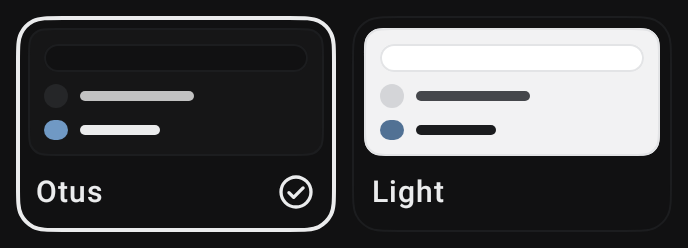
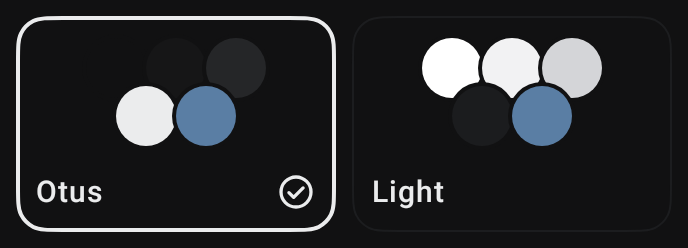
feat(theme): show theme colors as rings and add a hue slider (#162)
- Show each theme card's colors as two rows of overlapping rings.
- Add a public HueSlider, which ColorSheet now uses too.
- Make Hsl, hslColor, and toHsl public for apps that generate themes.
- Share ThemeColor.title so apps name colors as the Colors rows do.
- Drop the Accent color section and its custom accent sheet.
- Fill New mail in the phone preview with the real button's colors.
- Record the change in decision 0014 and the changelog.

Changed region(s): [[0.5189, 0.1129, 0.9767, 0.6492], [0.061, 0.3387, 0.3663, 0.5927]]

diff --git a/designsystem/src/commonMain/kotlin/com/otus/designsystem/shared/settings/components/ThemeCard.kt b/designsystem/src/commonMain/kotlin/com/otus/designsystem/shared/settings/components/ThemeCard.kt
@@ -7,12 +7,10 @@ import androidx.compose.foundation.layout.Arrangement
 import androidx.compose.foundation.layout.Box
 import androidx.compose.foundation.layout.Column
 import androidx.compose.foundation.layout.Row
-import androidx.compose.foundation.layout.fillMaxWidth
 import androidx.compose.foundation.layout.height
 import androidx.compose.foundation.layout.padding
 import androidx.compose.foundation.layout.requiredSize
 import androidx.compose.foundation.layout.size
-import androidx.compose.foundation.shape.CircleShape
 import androidx.compose.material.LocalContentColor
 import androidx.compose.material.Text
 import androidx.compose.runtime.Composable
@@ -24,7 +22,6 @@ import androidx.compose.runtime.setValue
 import androidx.compose.ui.Alignment
 import androidx.compose.ui.Modifier
 import androidx.compose.ui.geometry.Offset
-import androidx.compose.ui.graphics.Color
 import androidx.compose.ui.semantics.Role
 import androidx.compose.ui.semantics.selected
 import androidx.compose.ui.semantics.semantics
@@ -49,7 +46,7 @@ import com.otus.designsystem.theme.tokens.core.Spacing
 import com.otus.designsystem.theme.tokens.settings.ThemeTokens
 
 /**
- * A theme to pick: a small sketch of a page drawn in [sketch]'s colors above [title]. The
+ * A theme to pick: [sketch]'s colors as rings above [title]. The
  * selected card has an accent ring and a check; the card is one radio button.
  * With [actions], a long press opens them in a [ContextMenu] where the finger is, and the selected
  * card shows a more button that opens them in place of the check.
@@ -89,7 +86,7 @@ public fun ThemeCard(
                 ).padding(ThemeTokens.cardPadding),
             verticalArrangement = Arrangement.spacedBy(ThemeTokens.cardGap),
         ) {
-            ThemeSketch(sketch)
+            ThemeRings(sketch)
             CardLabel(title, selected, openMenu)
         }
         val menuPosition = menuAt
@@ -145,46 +142,5 @@ private fun MoreButton(
         ) {
             Symbol(Res.drawable.symbol_more_horiz)
         }
-    }
-}
-
-/** A page with a bar and two lines of text, the second led by the accent. */
-@Composable
-private fun ThemeSketch(sketch: OtusPalette) {
-    val shape = SmoothCornerShape(ThemeTokens.sketchRadius)
-    Column(
-        Modifier
-            .fillMaxWidth()
-            .height(ThemeTokens.sketchHeight)
-            .background(sketch.bgRegular, shape)
-            .strokeBorder(Sizes.borderWidth, sketch.strokeBgDark, shape)
-            .padding(ThemeTokens.sketchPadding),
-        verticalArrangement = Arrangement.spacedBy(ThemeTokens.sketchGap),
-    ) {
-        val bar = SmoothCornerShape(ThemeTokens.sketchBarRadius)
-        Box(
-            Modifier
-                .fillMaxWidth()
-                .height(ThemeTokens.sketchBarHeight)
-                .background(sketch.bgDark, bar)
-                .strokeBorder(Sizes.borderWidth, sketch.strokeBgDark, bar),
-        )
-        SketchLine(sketch.bgLight, sketch.text2, ThemeTokens.SKETCH_LONG_LINE)
-        SketchLine(sketch.accentLight, sketch.text1, ThemeTokens.SKETCH_SHORT_LINE)
-    }
-}
-
-@Composable
-private fun SketchLine(
-    dot: Color,
-    line: Color,
-    length: Float,
-) {
-    Row(
-        horizontalArrangement = Arrangement.spacedBy(ThemeTokens.sketchGap),
-        verticalAlignment = Alignment.CenterVertically,
-    ) {
-        Box(Modifier.size(ThemeTokens.sketchDot).background(dot, CircleShape))
-        Box(Modifier.fillMaxWidth(length).height(ThemeTokens.sketchLineHeight).background(line, CircleShape))
     }
 }

diff --git a/settings/src/commonMain/kotlin/com/otus/settings/presentation/screens/ThemeSettingsScreen.kt b/settings/src/commonMain/kotlin/com/otus/settings/presentation/screens/ThemeSettingsScreen.kt
@@ -22,8 +22,6 @@ import com.otus.designsystem.theme.colors.ThemeChoice
 import com.otus.designsystem.theme.colors.ThemeColor
 import com.otus.designsystem.theme.colors.get
 import com.otus.settings.presentation.ThemeSettingsState
-import com.otus.settings.presentation.components.AccentPicker
-import com.otus.settings.presentation.components.CustomAccentSheet
 import com.otus.settings.presentation.components.ThemeCards
 import com.otus.settings.presentation.components.ThemeColorRows
 import com.otus.settings.presentation.components.ThemeDialog
@@ -32,7 +30,7 @@ import com.otus.settings.presentation.components.themeActions
 import com.otus.settings.presentation.title
 
 /**
- * Picks the theme and accent the whole app uses. Changing a single color makes a custom theme,
+ * Picks the theme the whole app uses. Changing a single color makes a custom theme,
  * which stays until the user deletes it; a theme's actions duplicate, rename, or delete it. The
  * System theme hides the accent and colors, which come from the device. A
  * choice applies at once. A phone at the top shows the app in [preview], the current colors
@@ -47,7 +45,6 @@ public fun ThemeSettingsScreen(
     controls: @Composable ColumnScope.() -> Unit = {},
 ) {
     val choice = state.choice
-    var customizing by rememberSaveable { mutableStateOf(false) }
     var colorsShown by rememberSaveable { mutableStateOf(choice.customTheme != null) }
     var editing by rememberSaveable { mutableStateOf<ThemeColor?>(null) }
     var dialog by remember { mutableStateOf<ThemeDialog?>(null) }
@@ -65,15 +62,8 @@ public fun ThemeSettingsScreen(
         PageSection("Theme") {
             ThemeCards(choice, state::select) { themeActions(it, choice, state::select) { next -> dialog = next } }
         }
-        // The device's colors bring their own accent and stay as the device sets them.
+        // The device's colors stay as the device sets them.
         if (choice.activeSystem == null) {
-            PageSection("Accent color") {
-                AccentPicker(
-                    choice.accent,
-                    onSelect = { state.select(choice.withAccent(it)) },
-                    onCustom = { customizing = true },
-                )
-            }
             PageSection("Colors") {
                 ThemeColorRows(choice, colorsShown, { colorsShown = !colorsShown }, { editing = it })
             }
@@ -85,13 +75,6 @@ public fun ThemeSettingsScreen(
     }
     val currentDialog = dialog
     if (currentDialog != null) ThemeDialogs(currentDialog, choice, state::select) { dialog = it }
-    if (customizing) {
-        CustomAccentSheet(
-            choice,
-            onPick = { state.select(state.choice.withAccent(it)) },
-            onDismiss = { customizing = false },
-        )
-    }
     val color = editing ?: return
     ColorSheet(
         color.title,

diff --git a/designsystem/src/commonMain/kotlin/com/otus/designsystem/shared/settings/components/ThemeRings.kt b/designsystem/src/commonMain/kotlin/com/otus/designsystem/shared/settings/components/ThemeRings.kt
@@ -1,0 +1,68 @@
+package com.otus.designsystem.shared.settings.components
+
+import androidx.compose.foundation.background
+import androidx.compose.foundation.layout.Box
+import androidx.compose.foundation.layout.fillMaxWidth
+import androidx.compose.foundation.layout.height
+import androidx.compose.foundation.layout.offset
+import androidx.compose.foundation.layout.padding
+import androidx.compose.foundation.layout.size
+import androidx.compose.foundation.shape.CircleShape
+import androidx.compose.runtime.Composable
+import androidx.compose.ui.Alignment
+import androidx.compose.ui.Modifier
+import androidx.compose.ui.graphics.Color
+import com.otus.designsystem.theme.colors.OtusColors
+import com.otus.designsystem.theme.colors.OtusPalette
+import com.otus.designsystem.theme.tokens.core.Sizes
+import com.otus.designsystem.theme.tokens.settings.ThemeTokens
+
+/**
+ * [palette]'s colors as overlapping rings in two rows: its surfaces above, its text and accent
+ * below, half a ring along. Each ring is outlined in the card's color, so overlaps read as cut out.
+ */
+@Composable
+internal fun ThemeRings(palette: OtusPalette) {
+    val rows = listOf(palette.surfaces, palette.inks)
+    Box(Modifier.fillMaxWidth().height(ThemeTokens.sketchHeight), contentAlignment = Alignment.Center) {
+        Box(
+            Modifier.size(
+                width = ThemeTokens.ringSize + ThemeTokens.ringStep * (rows.maxOf { it.size } - 1),
+                height = ThemeTokens.ringSize + ThemeTokens.ringDrop * (rows.size - 1),
+            ),
+        ) {
+            rows.forEachIndexed { row, colors ->
+                colors.forEachIndexed { index, color ->
+                    Ring(
+                        color,
+                        Modifier.offset(x = ThemeTokens.ringStep * (index + row / 2f), y = ThemeTokens.ringDrop * row),
+                    )
+                }
+            }
+        }
+    }
+}
+
+@Composable
+private fun Ring(
+    color: Color,
+    modifier: Modifier,
+) {
+    // The color sits inside a disc of the card's color, not under a border on the same edge,
+    // so its antialiased rim cannot show past the outline as a light halo.
+    Box(
+        modifier
+            .size(ThemeTokens.ringSize)
+            .background(OtusColors.bgDark, CircleShape)
+            .padding(Sizes.borderWidth * 2)
+            .background(color, CircleShape),
+    )
+}
+
+/** The raised surface, page, and controls. */
+private val OtusPalette.surfaces: List<Color>
+    get() = listOf(bgDark, bgRegular, bgLight)
+
+/** The strongest text and the accent outline. */
+private val OtusPalette.inks: List<Color>
+    get() = listOf(text1, accentRegular)

diff --git a/designsystem/src/commonMain/kotlin/com/otus/designsystem/shared/settings/elements/HueSlider.kt b/designsystem/src/commonMain/kotlin/com/otus/designsystem/shared/settings/elements/HueSlider.kt
@@ -1,0 +1,38 @@
+package com.otus.designsystem.shared.settings.elements
+
+import androidx.compose.runtime.Composable
+import androidx.compose.runtime.remember
+import androidx.compose.ui.Modifier
+import androidx.compose.ui.graphics.Brush
+import com.otus.designsystem.theme.colors.hslColor
+
+/**
+ * Picks a [hue] in degrees over a rainbow track. The track shows every hue at [saturation] and
+ * [lightness], so it can preview the colors a choice gives, such as an accent's.
+ */
+@Composable
+public fun HueSlider(
+    hue: Float,
+    onHueChange: (Float) -> Unit,
+    label: String,
+    modifier: Modifier = Modifier,
+    saturation: Float = TRACK_SATURATION,
+    lightness: Float = TRACK_LIGHTNESS,
+) {
+    val track = remember(saturation, lightness) { hueTrack(saturation, lightness) }
+    ColorSlider(hue, onHueChange, track, label, modifier, range = 0f..MAX_HUE)
+}
+
+/** Every hue at [saturation] and [lightness], from red at the left back round to red at the right. */
+private fun hueTrack(
+    saturation: Float,
+    lightness: Float,
+): Brush = Brush.horizontalGradient(List(HUE_STOPS + 1) { hslColor(MAX_HUE * it / HUE_STOPS, saturation, lightness) })
+
+/** The largest hue: 360° is red again, the same as 0°. */
+public const val MAX_HUE: Float = 359f
+
+/** Twelve stops keep the bands smooth even at a low saturation. */
+private const val HUE_STOPS = 12
+private const val TRACK_SATURATION = 0.55f
+private const val TRACK_LIGHTNESS = 0.45f

diff --git a/designsystem/src/commonMain/kotlin/com/otus/designsystem/shared/settings/components/ColorSheet.kt b/designsystem/src/commonMain/kotlin/com/otus/designsystem/shared/settings/components/ColorSheet.kt
@@ -28,6 +28,7 @@ import com.otus.designsystem.shared.overlays.components.SheetHeaderAction
 import com.otus.designsystem.shared.overlays.elements.sheetInset
 import com.otus.designsystem.shared.reorder.components.HALF
 import com.otus.designsystem.shared.settings.elements.ColorSlider
+import com.otus.designsystem.shared.settings.elements.HueSlider
 import com.otus.designsystem.theme.colors.Hsl
 import com.otus.designsystem.theme.colors.OtusColors
 import com.otus.designsystem.theme.colors.hslColor
@@ -93,7 +94,7 @@ public fun ColorSheet(
                 color = parsed
                 hsl = parsed.toHsl()
             }
-            ColorSlider(hsl.hue, { slide(hsl.copy(hue = it)) }, hueTrack, "Hue", range = 0f..MAX_HUE)
+            HueSlider(hsl.hue, { slide(hsl.copy(hue = it)) }, "Hue")
             ColorSlider(
                 hsl.saturation,
                 { slide(hsl.copy(saturation = it)) },
@@ -128,13 +129,3 @@ private fun HexRow(
         InputField("Hex", hex, onHexChange, Modifier.weight(1f), placeholder = "#5A7EA4")
     }
 }
-
-private val hueTrack =
-    Brush.horizontalGradient(
-        (0..HUE_STOPS).map { hslColor(MAX_HUE * it / HUE_STOPS, TRACK_SATURATION, TRACK_LIGHTNESS) },
-    )
-
-private const val MAX_HUE = 359f
-private const val HUE_STOPS = 6
-private const val TRACK_SATURATION = 0.55f
-private const val TRACK_LIGHTNESS = 0.45f

diff --git a/designsystem/src/commonMain/kotlin/com/otus/designsystem/theme/tokens/settings/ThemeTokens.kt b/designsystem/src/commonMain/kotlin/com/otus/designsystem/theme/tokens/settings/ThemeTokens.kt
@@ -16,15 +16,11 @@ public object ThemeTokens {
     public val cardTitleSize: TextUnit = 15.sp
     public val cardTitleLineHeight: TextUnit = 20.sp
     public val sketchHeight: Dp = 64.dp
-    public val sketchRadius: Dp = cardRadius - cardPadding
-    public val sketchPadding: Dp = 8.dp
-    public val sketchGap: Dp = 6.dp
-    public val sketchBarHeight: Dp = 14.dp
-    public val sketchBarRadius: Dp = CornerTokens.small
-    public val sketchDot: Dp = 12.dp
-    public val sketchLineHeight: Dp = 5.dp
-    public const val SKETCH_LONG_LINE: Float = 0.5f
-    public const val SKETCH_SHORT_LINE: Float = 0.35f
+
+    /** A card's colors as rings in two rows, each [ringStep] from the next and the lower row [ringDrop] down. */
+    public val ringSize: Dp = 34.dp
+    public val ringStep: Dp = 30.dp
+    public val ringDrop: Dp = 24.dp
 
     public val swatchSize: Dp = 30.dp
     public val swatchTargetWidth: Dp = 40.dp

diff --git a/settings/src/commonMain/kotlin/com/otus/settings/presentation/ThemeLabels.kt b/settings/src/commonMain/kotlin/com/otus/settings/presentation/ThemeLabels.kt
@@ -1,6 +1,5 @@
 package com.otus.settings.presentation
 
-import com.otus.designsystem.theme.colors.AccentPreset
 import com.otus.designsystem.theme.colors.CustomTheme
 import com.otus.designsystem.theme.colors.ThemeBase
 import com.otus.designsystem.theme.colors.ThemeChoice
@@ -17,10 +16,8 @@ internal val CustomTheme.title: String
 internal val ThemeBase.title: String
     get() = name
 
-internal val AccentPreset.title: String
-    get() = if (this == AccentPreset.OtusBlue) "Otus blue" else name
-
-internal val ThemeColor.title: String
+/** A theme color's name, such as on its row under Colors. */
+public val ThemeColor.title: String
     get() =
         when (this) {
             ThemeColor.Page -> "Page"

diff --git a/settings/src/androidHostTest/kotlin/com/otus/settings/presentation/screens/ThemeSettingsScreenTest.kt b/settings/src/androidHostTest/kotlin/com/otus/settings/presentation/screens/ThemeSettingsScreenTest.kt
@@ -90,14 +90,6 @@ class ThemeSettingsScreenTest {
         compose.onNodeWithText("Black copy").assertExists()
     }
 
-    @Test
-    fun doneClosesTheCustomAccentSheet() {
-        showScreen()
-        compose.onNodeWithContentDescription("Custom color").performScrollTo().performClick()
-        clickButton("Done")
-        compose.onNodeWithContentDescription("Hue").assertDoesNotExist()
-    }
-
     /** Opens the page color; the list of colors starts unfolded when the theme has changed colors. */
     private fun openPageColor(listShown: Boolean = false) {
         showScreen()

diff --git a/designsystem/src/commonMain/kotlin/com/otus/designsystem/theme/colors/ColorMath.kt b/designsystem/src/commonMain/kotlin/com/otus/designsystem/theme/colors/ColorMath.kt
@@ -7,7 +7,7 @@ import kotlin.math.max
 import kotlin.math.min
 
 /** An opaque color from HSL, rounded to 8 bits per channel; out-of-range values are clamped. */
-internal fun hslColor(
+public fun hslColor(
     hue: Float,
     saturation: Float,
     lightness: Float,
@@ -17,7 +17,7 @@ internal fun hslColor(
     return Color(exact.toArgb())
 }
 
-internal fun Color.toHsl(): Hsl {
+public fun Color.toHsl(): Hsl {
     val high = max(red, max(green, blue))
     val low = min(red, min(green, blue))
     val lightness = (high + low) / 2

diff --git a/designsystem/src/commonMain/kotlin/com/otus/designsystem/shared/settings/components/ThemePhonePreview.kt b/designsystem/src/commonMain/kotlin/com/otus/designsystem/shared/settings/components/ThemePhonePreview.kt
@@ -234,7 +234,8 @@ private fun SketchBar(palette: OtusPalette) {
             Modifier
                 .weight(1f)
                 .fillMaxHeight()
-                .background(palette.accentRegular, CircleShape)
+                .background(palette.accentDark, CircleShape)
+                .strokeBorder(Sizes.borderWidth, palette.accentRegular, CircleShape)
                 .padding(horizontal = ThemeTokens.previewBarPadding),
             verticalAlignment = Alignment.CenterVertically,
         ) {

diff --git a/designsystem/src/commonMain/kotlin/com/otus/designsystem/theme/colors/Hsl.kt b/designsystem/src/commonMain/kotlin/com/otus/designsystem/theme/colors/Hsl.kt
@@ -1,7 +1,7 @@
 package com.otus.designsystem.theme.colors
 
 /** Hue in degrees from 0 to 360, saturation and lightness from 0 to 1. */
-internal data class Hsl(
+public data class Hsl(
     public val hue: Float,
     public val saturation: Float,
     public val lightness: Float,

diff --git a/docs/decisions/0014-user-themes.md b/docs/decisions/0014-user-themes.md
@@ -75,7 +75,7 @@ for this one theme only.
 A **System** card follows the built-in themes on Android 12 and newer. It takes every surface and
 text color and the accent from the device's Material You colors, and follows the device's light or
 dark mode. Android recreates the activity when the wallpaper colors or the mode change, and the app
-reads them again. While System is selected, the theme page hides the accent swatches and Colors,
+reads them again. While System is selected, the theme page hides Colors,
 since the device sets them; System has no Duplicate action. iOS and older Android show no System
 card, and a saved System choice falls back to the stored built-in theme there.
 
@@ -83,3 +83,11 @@ card, and a saved System choice falls back to the stored built-in theme there.
 saved preference adds a `system` part while it is selected. In Android source, `Context.systemTheme()`
 maps the Material You tonal palettes onto the theme colors, with the dark raised surface below the
 page and the light one above it, as in the built-in themes.
+
+## Update: accent from a hue
+
+The user asked to remove the accent swatches once Mail's theme page gained **Colors from one
+hue**, a slider that makes a whole theme, accent included, from one hue. The theme page no longer
+has an Accent color section or a custom accent sheet. The accent still exists: a generated theme
+sets it, the accent shades under Colors change it one by one, and **Reset to Otus** puts back Otus
+blue. `AccentPreset` stays, since the app icon matches its owl to the closest preset.
